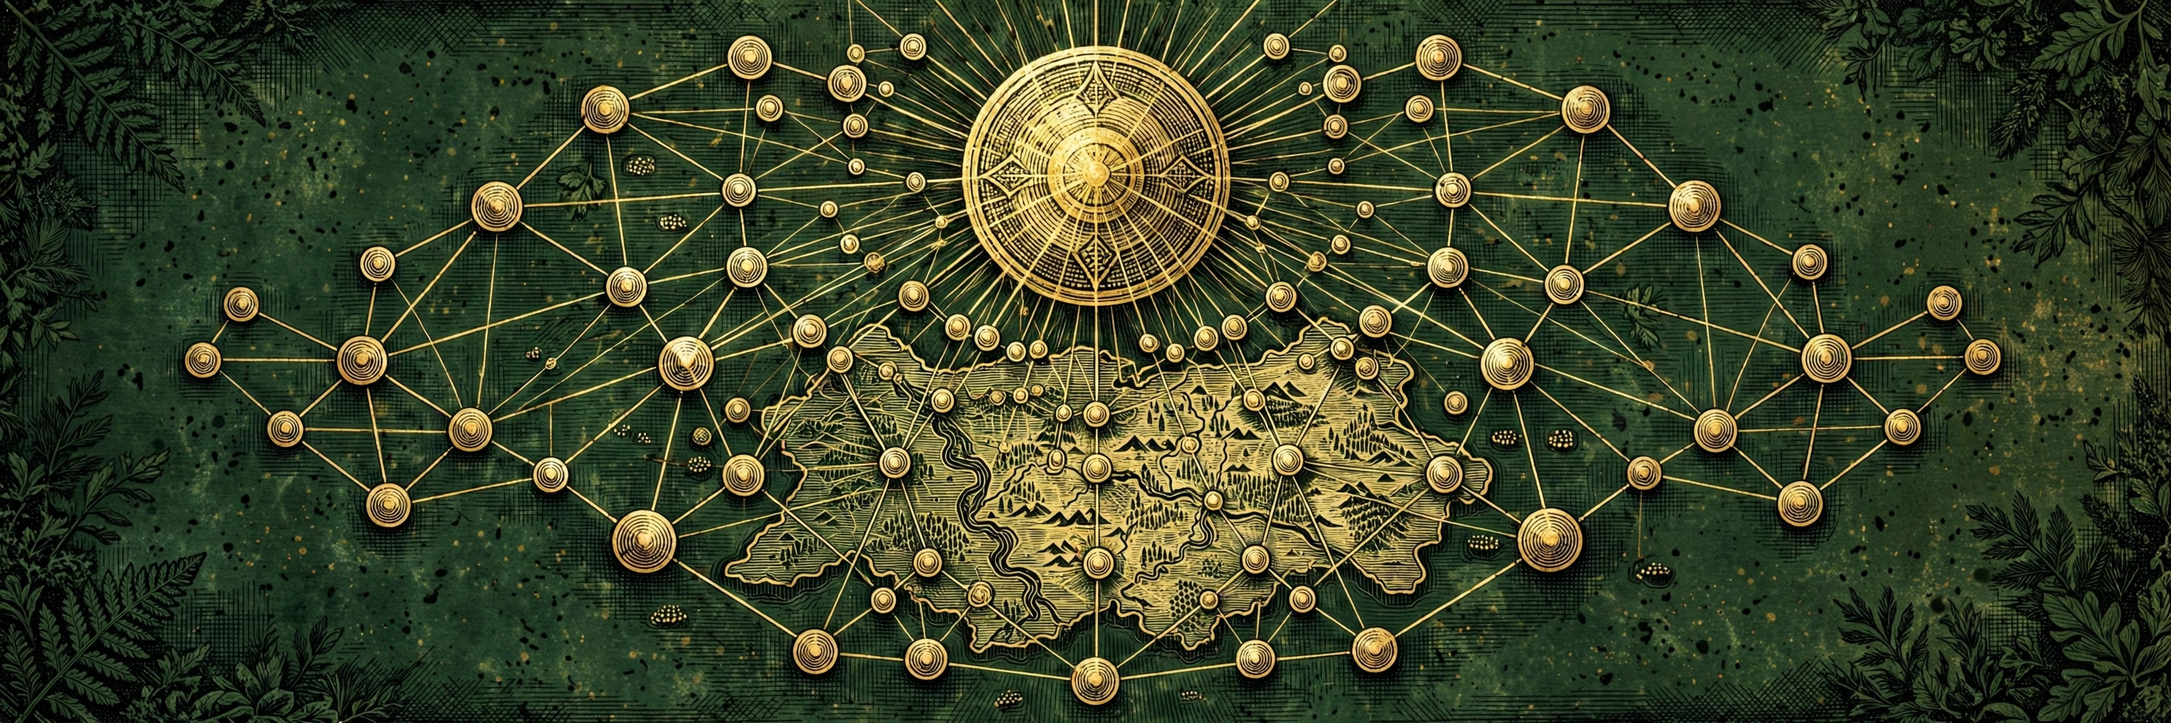
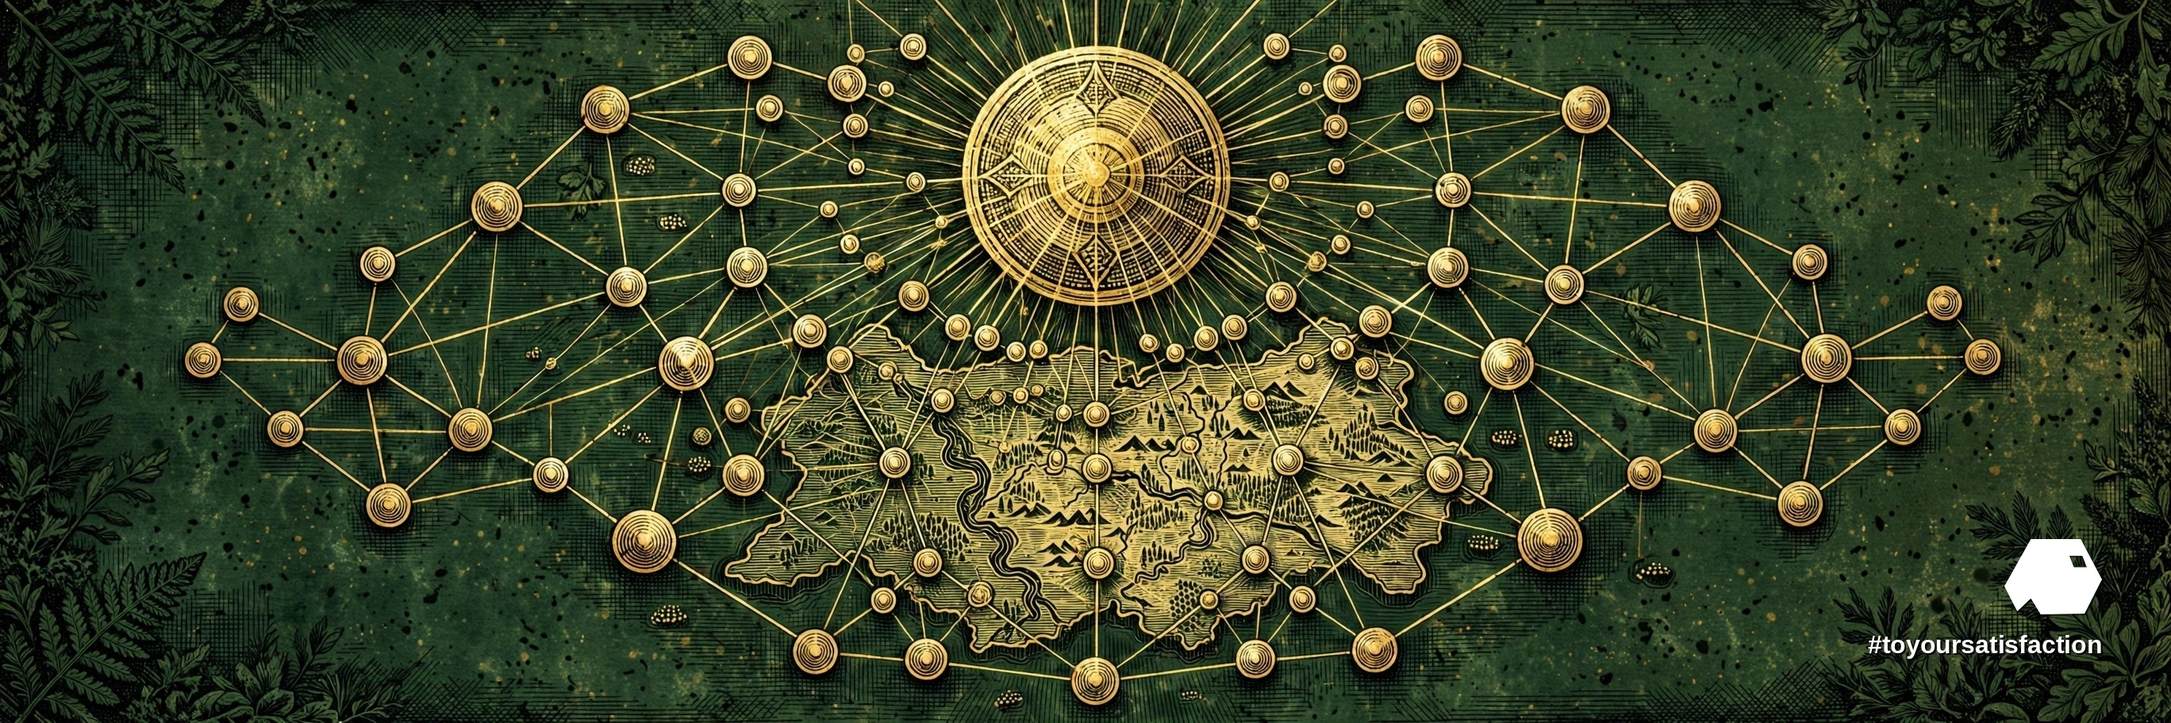
Magazine edition — batch 1

Changed region(s): [[0.8699, 0.7368, 0.9942, 0.9211]]

diff --git a/articles/attacker-runs-a-team-of-agents/index.html b/articles/attacker-runs-a-team-of-agents/index.html
@@ -13,34 +13,74 @@
 <meta property="og:image" content="https://oviainc.github.io/ai-services/articles/attacker-runs-a-team-of-agents/ovia-inc-attacker-runs-a-team-of-agents-hero.webp">
 <meta name="twitter:card" content="summary_large_image">
 <style>
-  :root{--bg:#0A0E14;--accent:#2E9BD6;--text:#FFFFFF;--muted:#B9C4CE;}
+  :root{--bg:#0A0E14;--panel:#101823;--text:#FFFFFF;--muted:#B9C4CE;--line:#22303E;--accent:#C9A227;}
   *{box-sizing:border-box;margin:0;padding:0;}
-  body{background:var(--bg);color:var(--text);font-family:-apple-system,BlinkMacSystemFont,"Segoe UI",Roboto,Helvetica,Arial,sans-serif;line-height:1.65;}
-  main{max-width:760px;margin:0 auto;padding:32px 20px 48px;}
-  .langbar{display:flex;justify-content:flex-end;align-items:center;gap:10px;margin-bottom:18px;}
-  .langbar label{color:var(--muted);font-size:.85rem;letter-spacing:.08em;text-transform:uppercase;}
-  .langbar select{background:#101823;color:var(--text);border:1px solid #1E2A36;border-radius:8px;padding:6px 10px;font-size:.95rem;max-width:60vw;}
-  .kicker{color:var(--accent);font-size:.85rem;letter-spacing:.18em;text-transform:uppercase;margin-bottom:14px;}
-  h1{font-size:2rem;line-height:1.25;margin-bottom:20px;font-weight:700;}
-  h2{font-size:1.3rem;line-height:1.35;margin:28px 0 12px;font-weight:700;color:var(--accent);}
-  img.hero{width:100%;height:auto;border-radius:10px;display:block;margin-bottom:28px;}
-  p{margin-bottom:16px;color:var(--text);}
-  p.tags{color:var(--accent);font-size:.95rem;}
-  ul.refs{list-style:none;margin-bottom:16px;}
-  ul.refs li{margin-bottom:10px;color:var(--muted);font-size:.95rem;}
+  body{background:var(--bg);color:var(--text);font-family:Georgia,'Times New Roman',Times,serif;line-height:1.6;}
+  a{color:var(--accent);}
+  .sans{font-family:-apple-system,BlinkMacSystemFont,"Segoe UI",Roboto,Helvetica,Arial,sans-serif;}
+  /* masthead zone over the article background image */
+  .mastzone{position:relative;overflow:hidden;border-bottom:1px solid var(--line);}
+  .mast-bg{position:absolute;inset:0;background-size:cover;background-position:center;opacity:.22;}
+  .mast-shade{position:absolute;inset:0;background:linear-gradient(180deg,rgba(10,14,20,.52),rgba(10,14,20,.94));}
+  .mast-inner{position:relative;max-width:1180px;margin:0 auto;padding:24px 22px 42px;}
+  .masthead{display:flex;align-items:center;gap:16px;flex-wrap:wrap;}
+  .masthead a.logo{display:block;line-height:0;}
+  .masthead img.logo{height:46px;width:auto;display:block;}
+  .wordmark{font-family:-apple-system,BlinkMacSystemFont,"Segoe UI",Roboto,Helvetica,Arial,sans-serif;letter-spacing:.34em;font-size:13px;text-transform:uppercase;color:var(--text);}
+  .langbar{display:flex;align-items:center;gap:10px;margin-left:auto;}
+  .langbar label{color:var(--muted);font-size:.8rem;letter-spacing:.08em;text-transform:uppercase;font-family:-apple-system,BlinkMacSystemFont,"Segoe UI",Roboto,Helvetica,Arial,sans-serif;}
+  .langbar select{background:#101823;color:var(--text);border:1px solid var(--line);border-radius:8px;padding:6px 10px;font-size:.95rem;max-width:52vw;}
+  .kicker{color:var(--accent);font-size:.85rem;letter-spacing:.3em;text-transform:uppercase;margin:44px 0 16px;font-family:-apple-system,BlinkMacSystemFont,"Segoe UI",Roboto,Helvetica,Arial,sans-serif;}
+  h1.display{font-family:"Arial Narrow Bold","Franklin Gothic Medium",Impact,Haettenschweiler,"Helvetica Neue Condensed Bold",sans-serif;text-transform:uppercase;font-weight:700;font-size:clamp(2.5rem,6.4vw,4.7rem);line-height:.99;letter-spacing:.004em;max-width:1020px;}
+  .standfirst{font-size:clamp(1.12rem,2.3vw,1.42rem);font-style:italic;color:var(--muted);max-width:780px;line-height:1.5;margin-top:18px;}
+  .byline{font-family:-apple-system,BlinkMacSystemFont,"Segoe UI",Roboto,Helvetica,Arial,sans-serif;font-size:.74rem;letter-spacing:.2em;text-transform:uppercase;color:var(--muted);border-top:1px solid var(--line);margin-top:24px;padding-top:14px;}
+  /* hero */
+  .hero-zone{max-width:1180px;margin:34px auto 0;padding:0 22px;}
+  figure.hero img{width:100%;height:auto;display:block;border-radius:2px;}
+  figcaption{font-family:-apple-system,BlinkMacSystemFont,"Segoe UI",Roboto,Helvetica,Arial,sans-serif;font-size:.78rem;color:var(--muted);padding-top:8px;letter-spacing:.03em;}
+  /* body columns */
+  main{max-width:1180px;margin:0 auto;padding:6px 22px 30px;}
+  .cols{margin-top:30px;font-size:1.16rem;line-height:1.75;}
+  @media (min-width:1020px){.cols{column-count:2;column-gap:54px;}}
+  .cols p{margin:0 0 20px;}
+  .cols p.first::first-letter{font-family:"Arial Narrow Bold","Franklin Gothic Medium",Impact,sans-serif;font-size:5.4rem;line-height:.78;float:left;padding:.55rem .9rem 0 0;color:var(--accent);font-weight:700;}
+  h2.sec{font-family:-apple-system,BlinkMacSystemFont,"Segoe UI",Roboto,Helvetica,Arial,sans-serif;font-size:.88rem;letter-spacing:.26em;text-transform:uppercase;color:var(--accent);margin:36px 0 14px;border-top:2px solid var(--accent);padding-top:14px;break-after:avoid;}
+  h2.sec:first-child{margin-top:0;}
+  blockquote.pull{column-span:all;font-size:clamp(1.55rem,3.6vw,2.35rem);line-height:1.3;font-style:italic;text-align:center;color:var(--accent);margin:42px 0;padding:4px 12px;}
+  figure.body{margin:4px 0 22px;break-inside:avoid;}
+  figure.wide{column-span:all;margin:30px 0 34px;}
+  figure.body img,figure.wide img{width:100%;height:auto;display:block;border-radius:2px;}
+  .keybox{break-inside:avoid;background:var(--panel);border:1px solid var(--line);border-top:3px solid var(--accent);padding:18px 20px 10px;margin:0 0 24px;font-family:-apple-system,BlinkMacSystemFont,"Segoe UI",Roboto,Helvetica,Arial,sans-serif;}
+  .keybox h3{font-size:.78rem;letter-spacing:.24em;text-transform:uppercase;color:var(--accent);margin-bottom:10px;}
+  .keybox li{margin:0 0 9px 18px;font-size:.95rem;line-height:1.5;}
+  /* references + tags + footer */
+  .refs-sec{margin-top:44px;border-top:1px solid var(--line);padding-top:24px;}
+  .refs-sec h2{font-family:-apple-system,BlinkMacSystemFont,"Segoe UI",Roboto,Helvetica,Arial,sans-serif;font-size:.88rem;letter-spacing:.26em;text-transform:uppercase;color:var(--accent);margin-bottom:14px;}
+  ul.refs{list-style:none;}
+  ul.refs li{margin-bottom:10px;color:var(--muted);font-size:.95rem;font-family:-apple-system,BlinkMacSystemFont,"Segoe UI",Roboto,Helvetica,Arial,sans-serif;}
   ul.refs a{color:var(--accent);text-decoration:none;word-break:break-all;}
   ul.refs a:hover{text-decoration:underline;}
-  footer{border-top:1px solid #1E2A36;margin-top:36px;padding-top:20px;font-size:.95rem;color:var(--muted);}
+  p.tags{color:var(--accent);font-size:.95rem;margin-top:26px;font-family:-apple-system,BlinkMacSystemFont,"Segoe UI",Roboto,Helvetica,Arial,sans-serif;}
+  footer{border-top:1px solid var(--line);margin-top:38px;padding:22px 0 10px;font-size:.95rem;color:var(--muted);font-family:-apple-system,BlinkMacSystemFont,"Segoe UI",Roboto,Helvetica,Arial,sans-serif;}
+  footer .frow{display:flex;align-items:center;gap:14px;flex-wrap:wrap;}
+  footer img.flogo{height:30px;width:auto;display:block;}
   footer a{color:var(--accent);text-decoration:none;}
   footer a:hover{text-decoration:underline;}
-  @media (max-width:600px){h1{font-size:1.55rem;}main{padding:22px 16px 36px;}}
+  footer .ftag{color:var(--text);letter-spacing:.06em;}
+  @media (max-width:640px){.mast-inner{padding:18px 16px 30px;}main,.hero-zone{padding-left:16px;padding-right:16px;}h1.display{font-size:2.35rem;}.cols{font-size:1.08rem;}}
 </style>
 </head>
 <body>
-<main>
-<div class="langbar">
-          <label for="langPick" data-tr>Language</label>
-          <select id="langPick" aria-label="Choose your language">
+<header class="mastzone">
+  <div class="mast-bg" style="background-image:url('ovia-inc-attacker-runs-a-team-of-agents-background.webp')"></div>
+  <div class="mast-shade"></div>
+  <div class="mast-inner">
+    <div class="masthead">
+      <a class="logo" href="../../" aria-label="Ovia Inc — home"><img class="logo" src="../../assets/ovia-inc-logo-white.webp" alt="Ovia Inc — logo"></a>
+      <span class="wordmark">Ovia Inc — Magazine</span>
+      <div class="langbar">
+        <label for="langPick" data-tr>Language</label>
+        <select id="langPick" aria-label="Choose your language">
             <option value="en">English</option>
             <option value="fr">Français</option>
             <option value="es">Español</option>
@@ -118,29 +158,62 @@
             <option value="lo">ລາວ</option>
             <option value="mn">Монгол</option>
           </select>
-        </div>
-  <p class="kicker" data-tr>Ovia Inc — Articles</p>
-  <h1 data-tr>The Attacker Now Runs a Team of Agents, Not a Keyboard</h1>
-  <img class="hero" src="ovia-inc-attacker-runs-a-team-of-agents-hero.webp" alt="Ovia Inc — An engraved network of gold nodes and threads over deep forest green, one large central node directing many smaller nodes across an etched map">
-  <h2 data-tr>The report</h2>
-  <p data-tr>On October 29, 2026, CrowdStrike published its account of a global espionage campaign attributed — on CrowdStrike's assessment — to VAPOR PANDA, a China-nexus adversary tracked since 2021. Beginning October 17, a single controller running the ARTEX agentic framework was directed against more than 200 organisations in at least 14 countries over an 11-day window: foreign ministries, a European country's presidency and prime minister's office, defence and intelligence bodies, semiconductor and pharmaceutical firms, think tanks and telecommunications providers. CrowdStrike confirmed post-exploitation activity at nine organisations; the campaign was still active at publication, and the attribution and target counts are CrowdStrike's, reported here as such.</p>
-  <h2 data-tr>Inside ARTEX</h2>
-  <p data-tr>The architecture will look familiar to anyone building legitimate agent systems, and that familiarity is the point. ARTEX coordinates a main agent with subordinate planner and worker agents over a shared graph of facts, findings and goals, advancing each engagement from initial access through host reconnaissance to lateral movement. A human operator stays in the loop, intervening at decision points; recovered transcripts show the operator directing agents to write web shells, extract domain administrator passwords and inventory endpoint sensor coverage. Multiple engagements ran in parallel against different targets, each tracked as its own task — a small team, multiplied by software.</p>
-  <h2 data-tr>Scale, in numbers</h2>
-  <p data-tr>Two figures measure the shift. In a single intrusion, the planning agents consumed on the order of 1.4 billion input tokens, CrowdStrike reports — a scale of automated reasoning no keyboard team sustains. And the tempo: hands-on-keyboard activity tracked over fifteen years typically ran at up to about 40 commands per hour; with ARTEX, that pace could exceed 1,500 commands per hour, CrowdStrike's Adam Meyers told CyberScoop, with requests arriving as often as every ten seconds. CrowdStrike also counted agentic adversary attacks rising from roughly 45 in September to 126 in October. The tradecraft is established; the speed and parallelism are new.</p>
-  <h2 data-tr>The counter-design</h2>
-  <p data-tr>Defence has to answer in kind — organised, observable and fast — and the counter-design is already visible in the same architecture, inverted. Least privilege shrinks what any single agent, account or session can reach. Expiring credentials close the window that stolen access depends on. Observable state — shared graphs of facts and findings, maintained for defenders — turns detection into a race between two teams of agents rather than a watch kept by tired eyes alone. The Staywired Technology Coordinator years taught the perimeter version of that lesson; NVIDIA-Certified Professional: AI Operations teaches the agent version: instrument the system, bound the authority, rehearse the response.</p>
-  <h2 data-tr>What to watch</h2>
-  <p data-tr>CrowdStrike assesses that agentic frameworks will keep spreading among state-nexus adversaries, and the same ARTEX tooling has already appeared under separate attribution elsewhere — a sign of a maturing ecosystem rather than a single campaign. Watch for defender-side agent teams moving from conference talks into standard practice, for token-scale telemetry becoming a detection signal in its own right, and for identity controls — short-lived credentials, scoped sessions — becoming the control plane where these contests are actually decided.</p>
-  <p data-tr>The same lesson applies to the budget conversation. A planning layer that can spend on the order of 1.4 billion input tokens on one intrusion changes the economics of attack in a way defenders must price honestly: automated reasoning at that scale is cheap for the side that runs it and expensive for the side that answers it by hand. Matching the tempo does not require matching the recklessness — defender agents operate inside known estates, with ground truth an attacker has to discover — but the tempo itself is no longer optional. Operations centres will staff agent fleets the way earlier generations staffed watch rotations.</p>
-  <h2 data-tr>References</h2>
-  <ul class="refs">
-    <li><span data-tr>CrowdStrike — “VAPOR PANDA Uses AI-Driven ARTEX to Grow Global Espionage Campaign”, October 29, 2026:</span> <a href="https://www.crowdstrike.com/en-us/blog/vapor-panda-uses-artex-to-scale-global-campaign/">https://www.crowdstrike.com/en-us/blog/vapor-panda-uses-artex-to-scale-global-campaign/</a></li>
-    <li><span data-tr>CyberScoop (Matt Kapko) — “China-backed threat group used agentic AI pentesting tool to compromise 140 sensitive targets in 11 days”, October 31, 2026, as republished by EuropeSays:</span> <a href="https://www.europesays.com/3343177/">https://www.europesays.com/3343177/</a></li>
-  </ul>
+      </div>
+    </div>
+    <p class="kicker" data-tr>Ovia Inc — Cybersecurity · Agentic Threats</p>
+    <h1 class="display" data-tr>The Attacker Now Runs a Team of Agents, Not a Keyboard</h1>
+    <p class="standfirst" data-tr>CrowdStrike ARTEX report shows an espionage campaign run by planner and worker agents over a shared graph, and defence has to answer in kind.</p>
+    <p class="byline" data-tr>Ovia Inc · Studio and Lab · 5 min read</p>
+  </div>
+</header>
+<div class="hero-zone">
+  <figure class="hero">
+    <img src="ovia-inc-attacker-runs-a-team-of-agents-hero.webp" alt="Ovia Inc — An engraved network of gold nodes and threads over deep forest green, one large central node directing many smaller nodes across an etched map">
+    <figcaption data-tr>One controller directing many nodes, engraved in green and gold. Image: Ovia Inc</figcaption>
+  </figure>
+</div>
+<main>
+  <div class="cols">
+<p class="first" data-tr>The familiar image of an intrusion is a person at a keyboard, typing commands one at a time, deep into the night. CrowdStrike account of a global espionage campaign, published October 29, 2026, retires that image. On the other side of the wire now sits a small team, and most of the team is software.</p>
+<p data-tr>On October 29, 2026, CrowdStrike published its account of a global espionage campaign attributed, on CrowdStrike assessment, to VAPOR PANDA, a China-nexus adversary tracked since 2021. Beginning October 17, a single controller running the ARTEX agentic framework was directed against more than 200 organisations in at least 14 countries over an 11-day window. CrowdStrike confirmed post-exploitation activity at nine organisations, and the campaign was still active at publication.</p>
+<p data-tr>We treat the numbers in the report as CrowdStrike numbers, reported as such, and the architecture as the durable lesson. Attribution and target counts belong to the source. The design of the attacking system, planner and worker agents over a shared graph with a human steering, is a pattern any builder of legitimate agent systems will recognise on sight, and recognition is where defence has to start.</p>
+<aside class="keybox"><h3 data-tr>Key points</h3><ul><li data-tr>CrowdStrike attributes a global espionage campaign to VAPOR PANDA, run through the ARTEX agentic framework.</li><li data-tr>More than 200 organisations in at least 14 countries were targeted over 11 days, per CrowdStrike.</li><li data-tr>ARTEX coordinates planner and worker agents over a shared graph, with a human operator steering at decision points.</li><li data-tr>Defence answers in kind: least privilege, expiring credentials and observable state for defender agent teams.</li></ul></aside>
+<h2 class="sec" data-tr>01 · The report</h2>
+<p data-tr>The target list describes an espionage campaign, not opportunistic crime: foreign ministries, a European country presidency and prime minister office, defence and intelligence bodies, semiconductor and pharmaceutical firms, think tanks and telecommunications providers. Nine organisations with confirmed post-exploitation activity, out of more than 200 targeted, also describes the arithmetic of defence at scale. Most targets held; the campaign only needed the few that did not.</p>
+<p data-tr>The timeline compresses the lesson. Eleven days, one controller, many parallel engagements, each tracked as its own task. A human team working that breadth would need shifts, hand-offs and sleep. The framework needed none of those, and the operator attention went only to the decision points where judgement changed the outcome.</p>
+<figure class="body"><img src="ovia-inc-attacker-runs-a-team-of-agents-body-1.webp" alt="Ovia Inc — One large central gold node directing many smaller connected nodes across an etched dark green map, in a deep forest green and gold vintage engraving style"><figcaption data-tr>One controller, many engagements, drawn as an engraved network. Image: Ovia Inc</figcaption></figure>
+<h2 class="sec" data-tr>02 · Inside ARTEX</h2>
+<p data-tr>The architecture will look familiar to anyone building legitimate agent systems, and that familiarity is the point. ARTEX coordinates a main agent with subordinate planner and worker agents over a shared graph of facts, findings and goals, advancing each engagement from initial access through host reconnaissance to lateral movement. A human operator stays in the loop, intervening at decision points; recovered transcripts show the operator directing agents to write web shells, extract domain administrator passwords and inventory endpoint sensor coverage. Multiple engagements ran in parallel against different targets, each tracked as its own task: a small team, multiplied by software.</p>
+<p data-tr>We note the shared graph with professional respect and professional alarm. A shared graph is how a team keeps common ground: what is known, what is guessed, what remains to try. Legitimate agent programmes, including the agent work studied through Hugging Face Agents certification, use the same coordination logic for the same reason. The tooling is neutral. The intent, the targets and the authority behind the tooling are not.</p>
+<blockquote class="pull" data-tr>The tradecraft is established; the speed and parallelism are new.</blockquote>
+<h2 class="sec" data-tr>03 · Scale, in numbers</h2>
+<p data-tr>Two figures measure the shift. In a single intrusion, the planning agents consumed on the order of 1.4 billion input tokens, CrowdStrike reports, a scale of automated reasoning no keyboard team sustains. And the tempo: hands-on-keyboard activity tracked over fifteen years typically ran at up to about 40 commands per hour; with ARTEX, that pace could exceed 1,500 commands per hour, CrowdStrike Adam Meyers told CyberScoop, with requests arriving as often as every ten seconds. CrowdStrike also counted agentic adversary attacks rising from roughly 45 in September to 126 in October.</p>
+<figure class="wide"><img src="ovia-inc-attacker-runs-a-team-of-agents-body-3.webp" alt="Ovia Inc — An engraved hourglass with a cascade of gold command ticks accelerating along a curved timeline, in a deep forest green and gold vintage engraving style"><figcaption data-tr>Tempo, etched: the hourglass against the accelerating line of commands. Image: Ovia Inc</figcaption></figure>
+<p data-tr>The budget conversation changes with those figures. A planning layer that can spend on the order of 1.4 billion input tokens on one intrusion makes automated reasoning cheap for the side that runs the layer and expensive for the side that answers by hand. Matching the tempo does not require matching the recklessness. Defender agents operate inside known estates, with ground truth an attacker has to discover, but the tempo itself is no longer optional.</p>
+<h2 class="sec" data-tr>04 · The counter-design</h2>
+<p data-tr>Defence has to answer in kind, organised, observable and fast, and the counter-design is already visible in the same architecture, inverted. Least privilege shrinks what any single agent, account or session can reach. Expiring credentials close the window that stolen access depends on. Observable state, shared graphs of facts and findings maintained for defenders, turns detection into a race between two teams of agents rather than a watch kept by tired eyes alone.</p>
+<figure class="body"><img src="ovia-inc-attacker-runs-a-team-of-agents-body-2.webp" alt="Ovia Inc — An engraved defensive estate with gold gates, hourglasses and a shared graph of facts, in a deep forest green and gold vintage engraving style"><figcaption data-tr>The counter-design, engraved: bounded authority, expiring access, shared defender state. Image: Ovia Inc</figcaption></figure>
+<p data-tr>The Staywired Technology Coordinator years taught the perimeter version of that lesson; NVIDIA-Certified Professional: AI Operations teaches the agent version: instrument the system, bound the authority, rehearse the response. Operations centres will staff agent fleets the way earlier generations staffed watch rotations, and the craft moves from watching every event to designing the bounds inside which fast machines may act.</p>
+<h2 class="sec" data-tr>05 · What to watch</h2>
+<p data-tr>CrowdStrike assesses that agentic frameworks will keep spreading among state-nexus adversaries, and the same ARTEX tooling has already appeared under separate attribution elsewhere, a sign of a maturing ecosystem rather than a single campaign. Watch for defender-side agent teams moving from conference talks into standard practice, for token-scale telemetry becoming a detection signal in its own right, and for identity controls, short-lived credentials and scoped sessions, becoming the control plane where these contests are actually decided.</p>
+<p data-tr>We close with the plain version. The attacker now runs a team of agents, not a keyboard, and the team does not tire, does not lose the thread between shifts and does not forget a finding recorded in the graph. Defence that reasons in single alerts will lose to defence that reasons in teams. Building the defender team, bounded and observable, is the work now.</p>
+
+  </div>
+  <div class="refs-sec">
+    <h2 data-tr>References</h2>
+    <ul class="refs">
+<li><span data-tr>CrowdStrike — “VAPOR PANDA Uses AI-Driven ARTEX to Grow Global Espionage Campaign”, October 29, 2026:</span> <a href="https://www.crowdstrike.com/en-us/blog/vapor-panda-uses-artex-to-scale-global-campaign/">https://www.crowdstrike.com/en-us/blog/vapor-panda-uses-artex-to-scale-global-campaign/</a></li>
+<li><span data-tr>CyberScoop (Matt Kapko) — “China-backed threat group used agentic AI pentesting tool to compromise 140 sensitive targets in 11 days”, October 31, 2026, as republished by EuropeSays:</span> <a href="https://www.europesays.com/3343177/">https://www.europesays.com/3343177/</a></li>
+
+    </ul>
+  </div>
   <p class="tags">#Cybersecurity #AIAgents #ThreatIntelligence #toyoursatisfaction</p>
   <footer>
-    <p><a href="../../">Ovia Inc</a> · Source on GitHub: <a href="https://github.com/Oviainc/ai-services">github.com/Oviainc/ai-services</a></p>
+    <div class="frow">
+      <a href="../../" aria-label="Ovia Inc — home"><img class="flogo" src="../../assets/ovia-inc-logo-white.webp" alt="Ovia Inc — logo"></a>
+      <span><a href="../../">Ovia Inc</a> · <span data-tr>Source on GitHub:</span> <a href="https://github.com/Oviainc/ai-services">github.com/Oviainc/ai-services</a></span>
+      <span class="ftag">#toyoursatisfaction</span>
+    </div>
   </footer>
 </main>
 <script>
